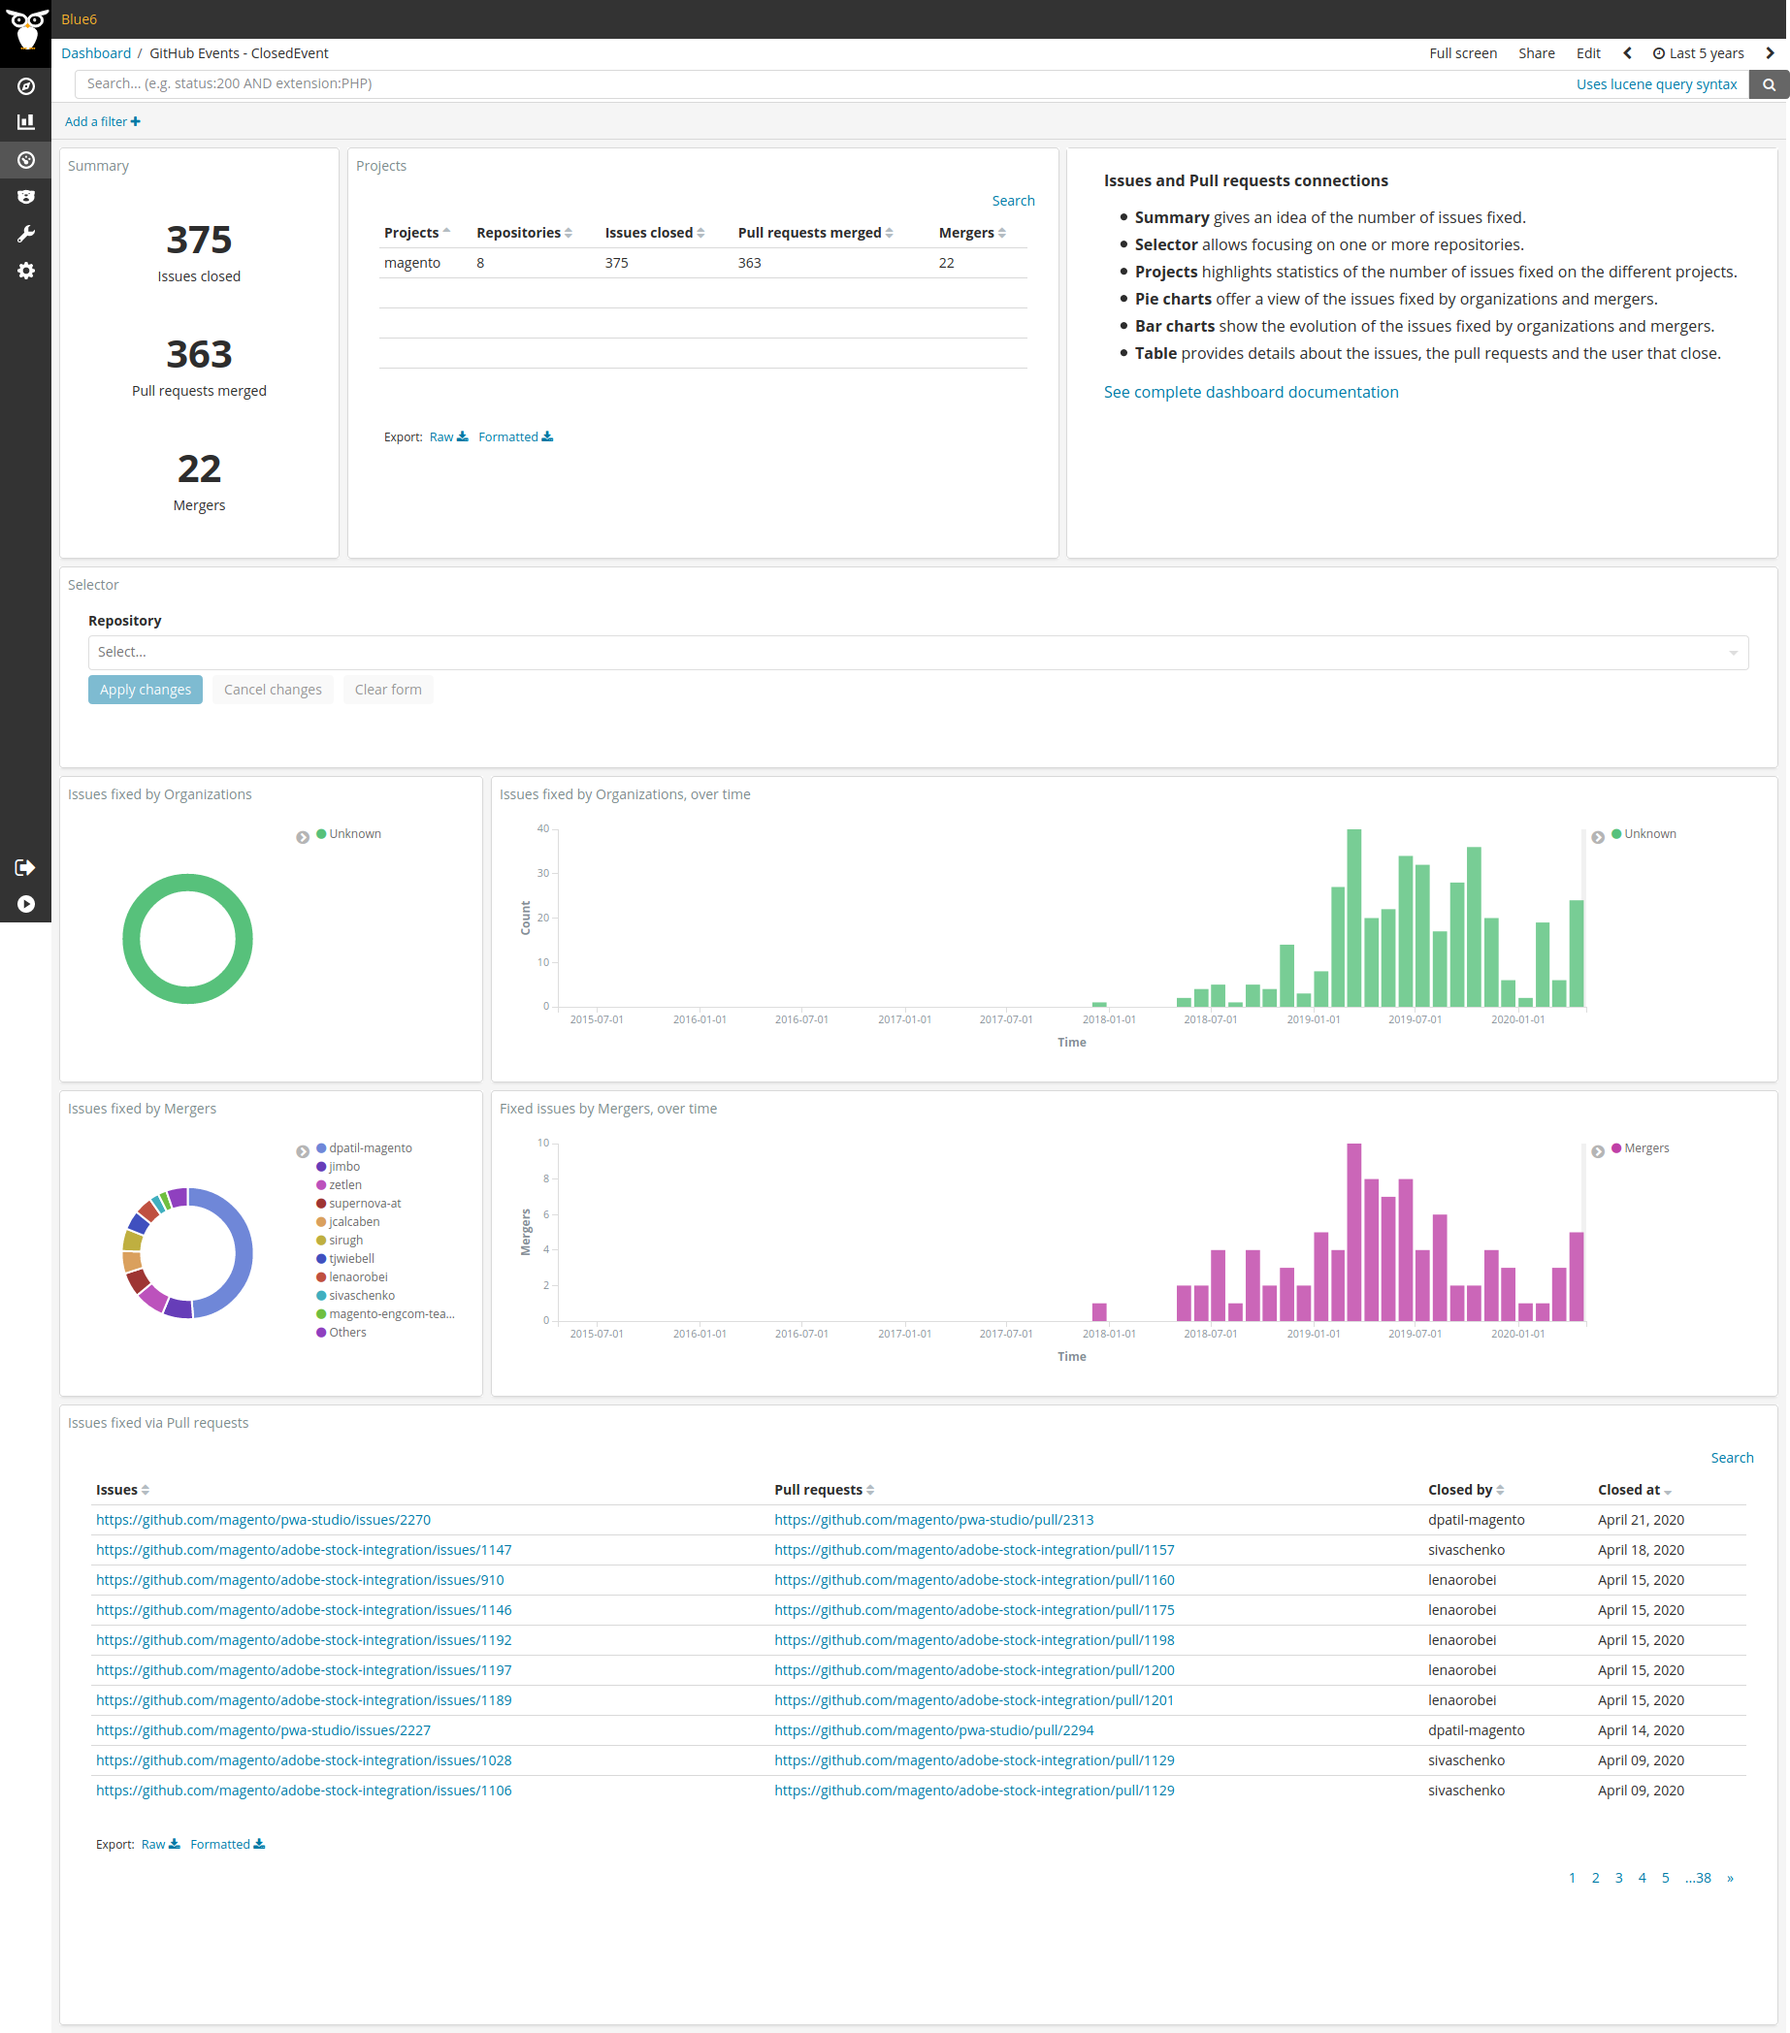
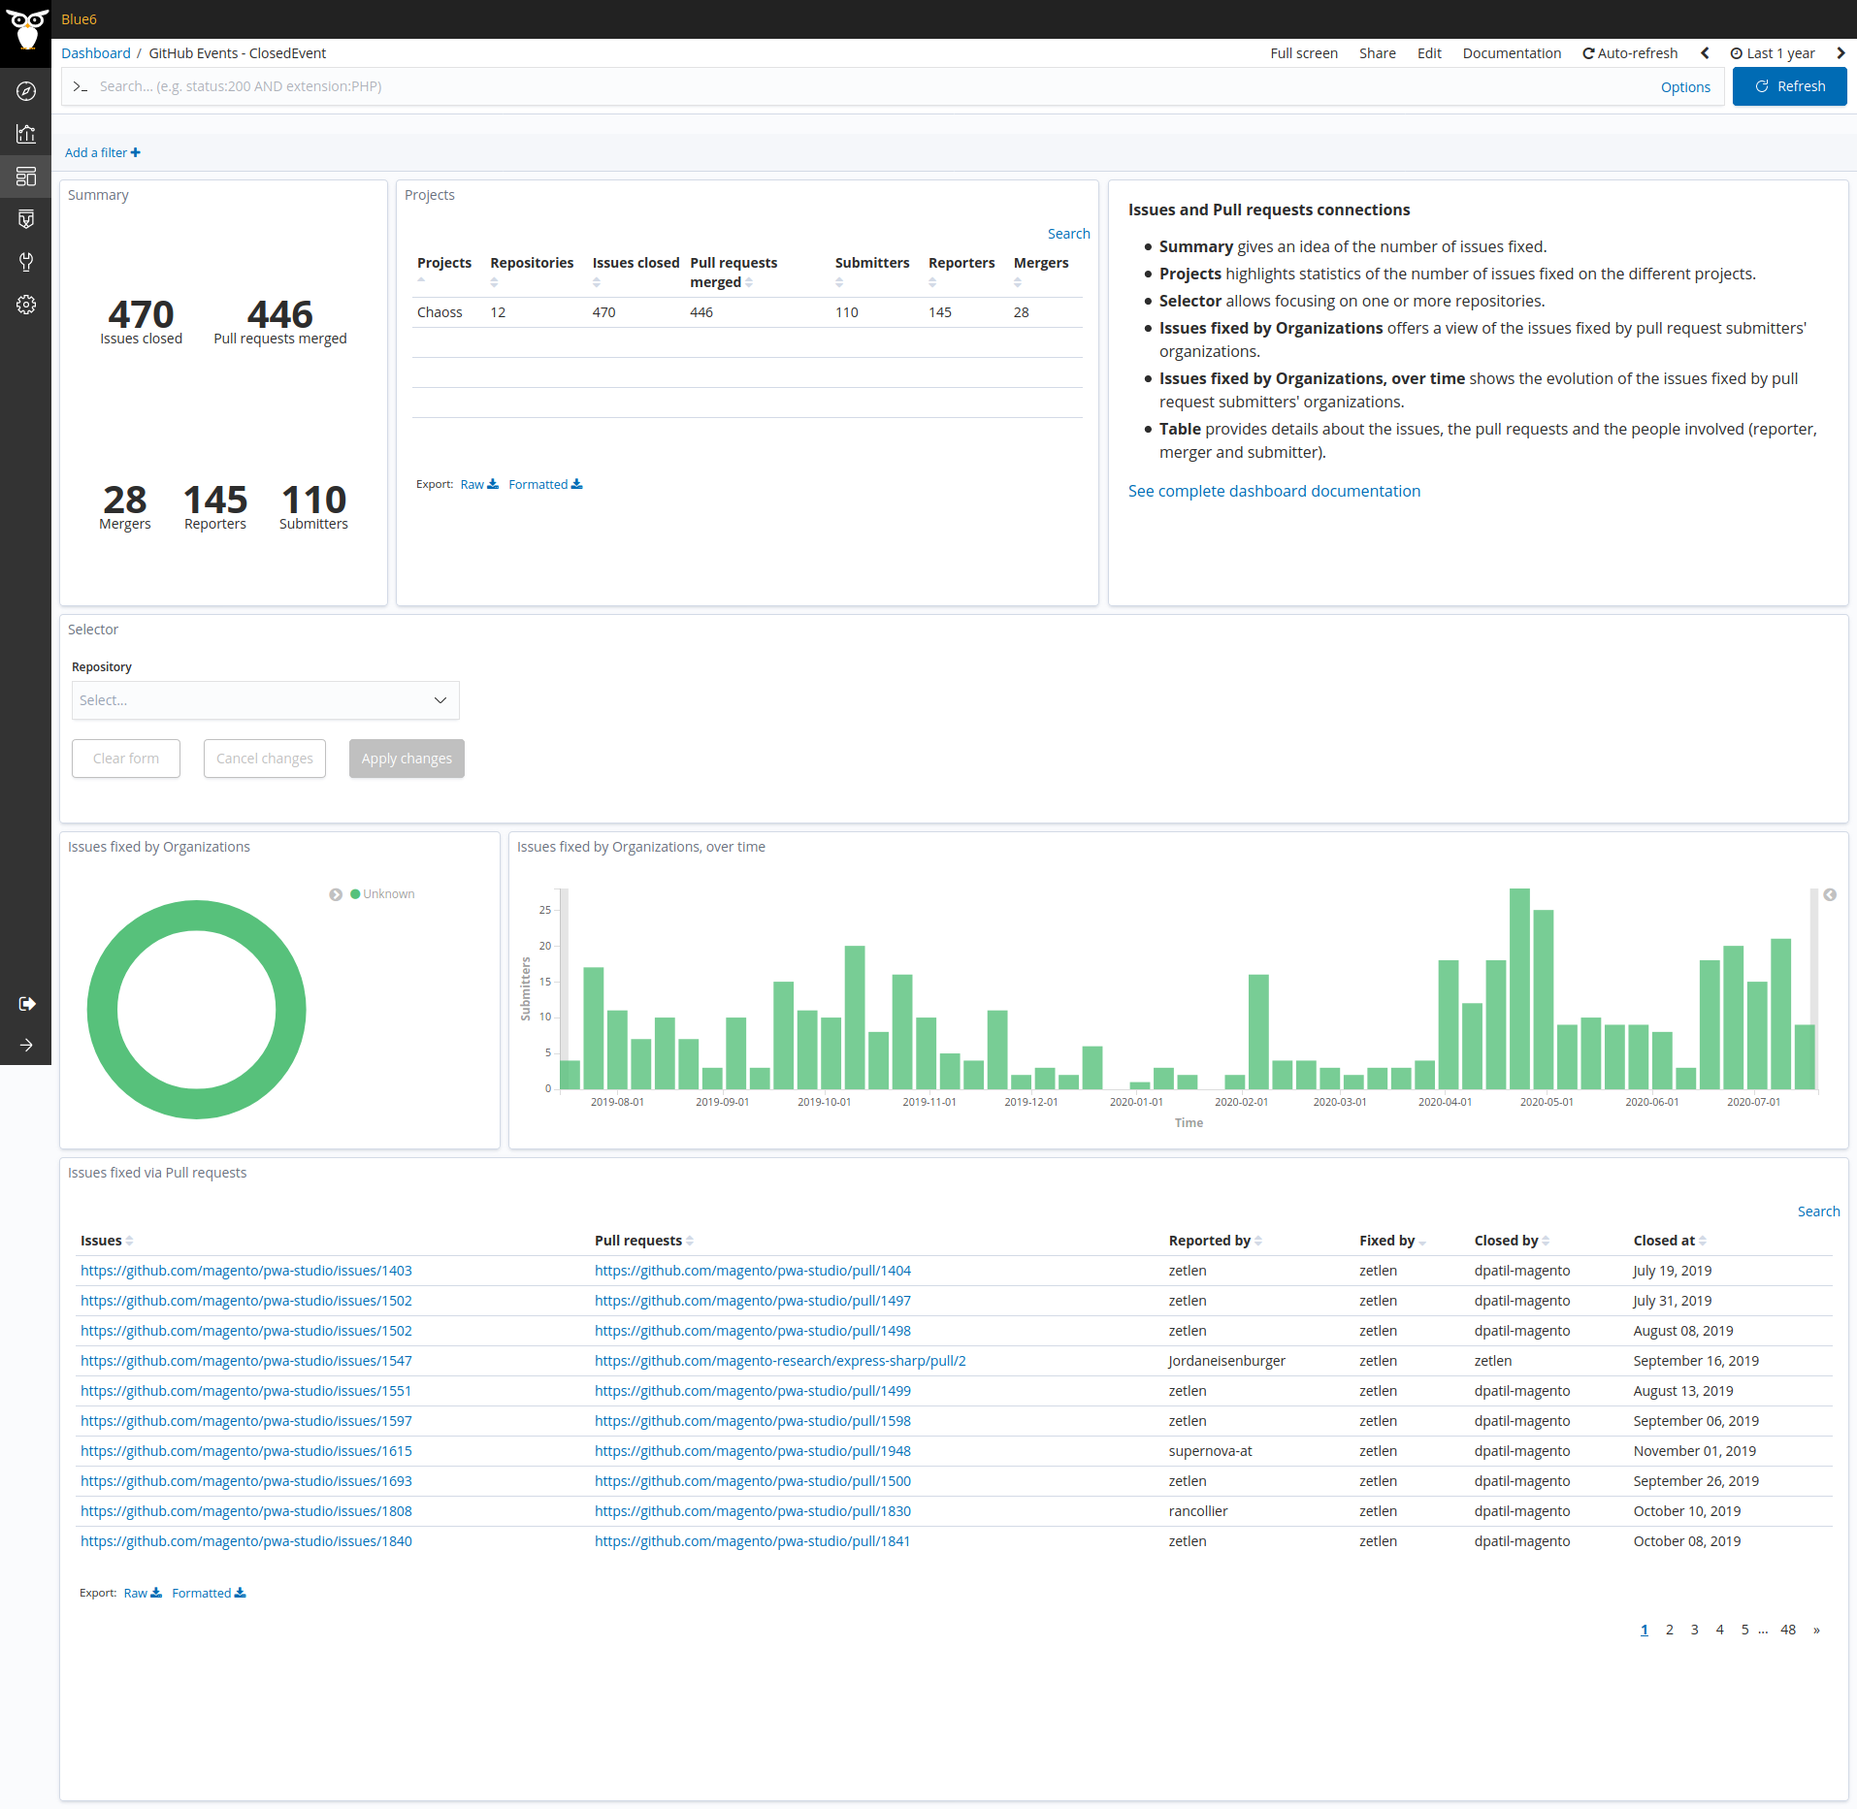
[github-closed-events] Include submitters and reporters in dashboard
This code improves the visualizations for the dashboard around the
connections between the issues closed by pull requests. Now, the
information about the issue reporters and pull request submitters
is shown on the dashboard. In particular, it is possible to know the
global numbers of submitters and reporters, the details for each issue,
and see how many issues have been fixed by a given submitters
and the organization he belongs to.

Details about single contributors fixing issues have been removed.

Documentation has been updated.

diff --git a/docs/_panels/github-closed-events.md b/docs/_panels/github-closed-events.md
@@ -12,8 +12,23 @@ This dashboard shows information related to the connection between the issues cl
 are derived from the close events returned by the GitHub API. The widgets in the dashboard are described below.
 
 - **Summary** gives an idea of the number of issues fixed.
-- **Selector** allows focusing on one or more repositories.
 - **Projects** highlights statistics of the number of issues fixed on the different projects.
-- **Pie charts** offer a view of the issues fixed by organizations and mergers.
-- **Bar charts** show the evolution of the issues fixed by organizations and mergers.
-- **Table** provides details about the issues, the pull requests and the user that close.
+- **Selector** allows focusing on one or more repositories.
+- **Issues fixed by Organizations** offers a view of the issues fixed by pull request submitters' organizations.
+- **Issues fixed by Organizations, over time** shows the evolution of the issues fixed by pull request submitters' organizations.
+- **Table** provides details about the issues, the pull requests and the people involved (reporter, merger and submitter).
+
+### Building the Dashboard: details about Index and Fields
+
+This dashboard is built on top of a search on [github_events] index which includes the closing events by pull 
+requests. The generation of such events is described below. 
+
+When a pull request references a keyword (e.g., fixes, closes, resolves) and issue number, GitHub creates an 
+association between the pull request and the issue. When the pull request is merged into the repository's default 
+branch, the corresponding issue is automatically closed, and the corresponding event is generated.
+
+By default, the closed event includes the author that triggered the action (e.g., the user that merged a pull request).
+During the enrichment process, the issue reporter and pull request submitter are also added to the enriched 
+items (attributes `reporter_*` and `submitter_*`).   
+
+[github_events]: https://github.com/chaoss/grimoirelab-elk/blob/master/schema/github_events.csv
